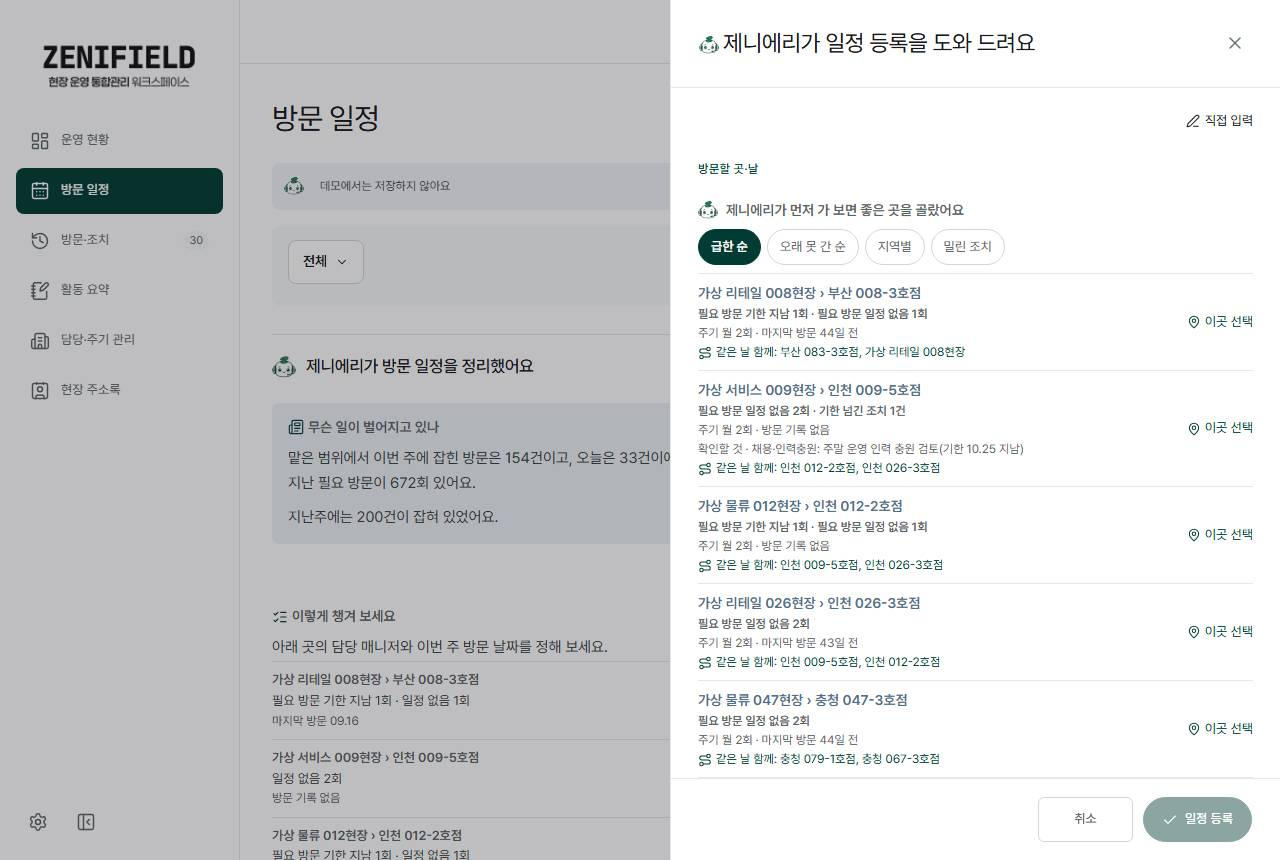
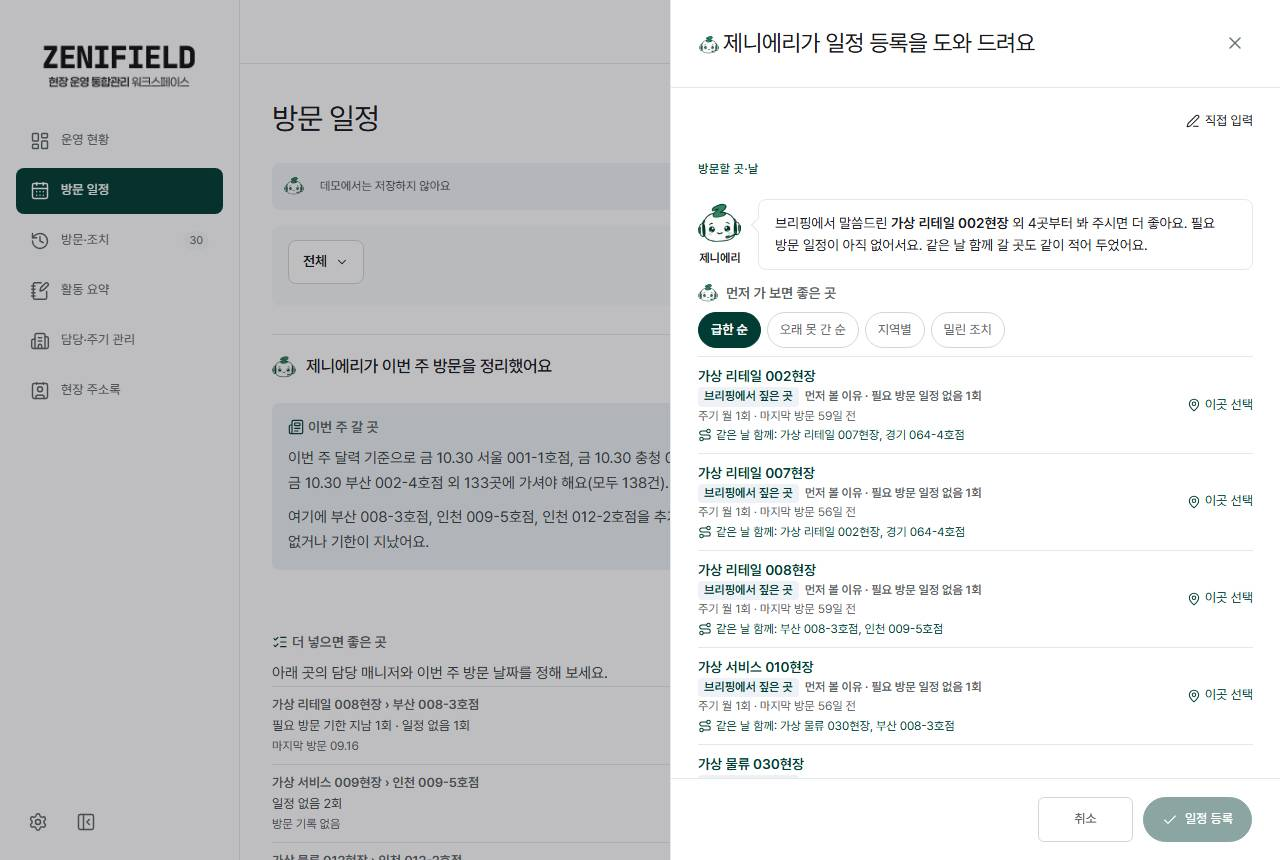
방문 일정 정리를 달력 기준(이번 주 갈 곳·더 넣으면 좋은 곳)으로, 일정 등록 추천에 제니에리 말풍선·브리핑에서 짚은 곳 연결·먼저 볼 이유

diff --git a/app/platform/page-guide.tsx b/app/platform/page-guide.tsx
@@ -11,33 +11,36 @@ import {targetOf} from './model';
 import type {Context} from './context';
 
 type Row={key:string;head:string;what:string;meta:string;go:()=>void;doLabel:string;doIt:()=>void;to:string;msg:string};
-function GuidePanel({title,paras,advice,rows,more}:{title:string;paras:string[];advice:string;rows:Row[];more?:ReactNode}){
+function GuidePanel({title,paras,advice,rows,more,storyTitle='무슨 일이 벌어지고 있나',listTitle='이렇게 챙겨 보세요'}:{title:string;paras:string[];advice:string;rows:Row[];more?:ReactNode;storyTitle?:string;listTitle?:string}){
  return <section className="panel ai-brief action-brief" aria-label={title}>
   <div className="panel-heading"><div><h2><AiMark/>{title}</h2></div></div>
   <div className="chart-body"><div className="ai-brief-out">
-   <section className="ai-brief-story"><h3><Newspaper size={16} aria-hidden/>무슨 일이 벌어지고 있나</h3>{paras.map((x,i)=><p key={i}>{x}</p>)}</section>
-   {rows.length>0&&<section className="ai-brief-focus"><h3><ListChecks size={16} aria-hidden/>이렇게 챙겨 보세요<CopyButton label="이렇게 챙겨 보세요 복사" text={[advice,...rows.map(r=>`- ${r.head}: ${r.what} (${r.meta})`)].join('\n')}/></h3>
+   <section className="ai-brief-story"><h3><Newspaper size={16} aria-hidden/>{storyTitle}</h3>{paras.map((x,i)=><p key={i}>{x}</p>)}</section>
+   {rows.length>0&&<section className="ai-brief-focus"><h3><ListChecks size={16} aria-hidden/>{listTitle}<CopyButton label={listTitle+' 복사'} text={[advice,...rows.map(r=>`- ${r.head}: ${r.what} (${r.meta})`)].join('\n')}/></h3>
     <p className="action-advice">{advice}</p>
     <ul className="action-late">{rows.map(r=><li key={r.key}><button type="button" onClick={r.go}><b>{r.head}</b><span>{r.what}</span><small>{r.meta}</small></button><button type="button" className="btn small" onClick={r.doIt}>{r.doLabel==='일정 잡기'?<CalendarPlus size={14} aria-hidden/>:r.doLabel==='결과 쓰기'?<PenLine size={14} aria-hidden/>:r.doLabel==='담당 정하기'?<UserRoundPen size={14} aria-hidden/>:<ClipboardPen size={14} aria-hidden/>}{r.doLabel}</button>{r.to&&<CopyButton label={r.to+'에게 보낼 말 복사'} text={r.msg} visible="보낼 말"/>}</li>)}</ul>{more}</section>}
   </div></div>
  </section>;
 }
+// 받침에 맞는 목적격 조사(을/를)
+const eul=(w:string)=>{const ch=w.charCodeAt(w.length-1);return ch>=0xac00&&ch<=0xd7a3&&(ch-0xac00)%28===0?'를':'을'};
 const honor=(c:Context,id:string)=>c.uname(id)+' 매니저님';
 
-// 방문 일정: 이번 주 잡힌 일정·일정 잡을 회차 → 먼저 일정을 잡을 곳 3곳
+// 방문 일정: 달력 기준(이번 주 잡힌 방문이 어디어디인지) → 더 넣으면 좋은 곳(필요 방문 일정이 없거나 기한 지난 곳) 독려. 무슨 일 문단은 방문·조치 화면에만.
 export function ScheduleGuide({c}:{c:Context}){
- const self=c.me.role==='manager',where=self?'':'맡은 범위에서 ';
- const f=useMemo(()=>{const wk=weekOf(c.now),we=dayShift(wk,6),pw=dayShift(wk,-7);
-  const planned=c.visits.filter(v=>v.status==='planned'&&between(v.plannedDate,wk,we)).length,plannedPrev=c.visits.filter(v=>between(v.plannedDate,pw,dayShift(pw,6))).length;
-  const today=c.visits.filter(v=>v.status==='planned'&&v.plannedDate===c.now).length,gap=c.allMetrics.delayed+c.allMetrics.unplanned;
+ const self=c.me.role==='manager';
+ const f=useMemo(()=>{const wk=weekOf(c.now),we=dayShift(wk,6),dow='일월화수목금토';
+  const week=c.visits.filter(v=>v.status==='planned'&&between(v.plannedDate,c.now,we)).sort((a,b)=>(a.plannedDate||'').localeCompare(b.plannedDate||'')||(a.time||'').localeCompare(b.time||''));
+  const label=(d:string)=>dow[new Date(d+'T12:00:00Z').getUTCDay()]+' '+mmdd(d);
   const att=attentionOf(targetFacts(c.scope,c.visits,c.actions,c.allMetrics.slots,c.now).values()).filter(x=>!x.upcoming&&(x.delayed.length||x.unplanned.length)).slice(0,3);
-  return {planned,plannedPrev,today,gap,att}},[c.visits,c.actions,c.scope,c.allMetrics,c.now]);
- const paras=[`${where}이번 주에 잡힌 방문은 ${f.planned}건이고, 오늘은 ${f.today}건이에요.`+(f.gap?` 일정을 아직 잡지 않았거나 기한이 지난 필요 방문이 ${f.gap}회 있어요.`:' 일정을 잡아야 할 필요 방문은 없어요.'),
-  `지난주에는 ${f.plannedPrev}건이 잡혀 있었어요.`];
+  return {week,label,att}},[c.visits,c.actions,c.scope,c.allMetrics,c.now]);
+ const uniq=[...new Set(f.week.map(v=>`${f.label(v.plannedDate!)} ${c.label(v)}`))],shown=uniq.slice(0,4),rest=uniq.length-shown.length;
+ const paras=[f.week.length?`이번 주 달력 기준으로 ${shown.join(', ')}${rest>0?` 외 ${rest}곳`:''}에 가셔야 해요(모두 ${f.week.length}건).`:'이번 주 달력에 남은 방문이 없어요.',
+  f.att.length?`여기에 ${f.att.map(x=>x.target.name).join(', ')}${eul(f.att[f.att.length-1].target.name)} 추가하면 좋아요. 필요 방문 일정이 아직 없거나 기한이 지났어요.`:'더 넣어야 할 필요 방문은 없어요. 지금 일정대로 다녀오시면 돼요.'];
  const rows:Row[]=f.att.map(x=>{const t=x.target,owner=t.managerIds[0]||'',why=[x.delayed.length&&`필요 방문 기한 지남 ${x.delayed.length}회`,x.unplanned.length&&`일정 없음 ${x.unplanned.length}회`].filter(Boolean).join(' · ');
   return {key:t.id,head:(t.type==='store'?t.siteName+' › ':'')+t.name,what:why,meta:x.lastVisit?`마지막 방문 ${mmdd(x.lastVisit)}`:'방문 기록 없음',go:()=>c.showTarget(t.id),doLabel:'일정 잡기',doIt:()=>c.open('visit',undefined,{targetType:t.type,siteId:t.siteId,storeId:t.storeId||undefined}),
    to:self||!owner?'':honor(c,owner),msg:owner?`${honor(c,owner)}, ${t.name} 필요 방문 일정이 아직 없어요. 이번 주 안에 방문 날짜를 잡아 주세요.`:''}});
- return <GuidePanel title="제니에리가 방문 일정을 정리했어요" paras={paras} advice={self?'아래 곳부터 방문 날짜를 잡아 보세요.':'아래 곳의 담당 매니저와 이번 주 방문 날짜를 정해 보세요.'} rows={rows}/>;
+ return <GuidePanel title="제니에리가 이번 주 방문을 정리했어요" storyTitle="이번 주 갈 곳" listTitle="더 넣으면 좋은 곳" paras={paras} advice={self?'달력에 아래 곳을 추가해 보세요.':'아래 곳의 담당 매니저와 이번 주 방문 날짜를 정해 보세요.'} rows={rows}/>;
 }
 
 // 방문 기록: 이번 기간 마친 방문·결과 안 쓴 방문 → 오래된 미작성 3건

diff --git a/app/platform/my-schedule.tsx b/app/platform/my-schedule.tsx
@@ -10,6 +10,7 @@ import {targetFacts,attentionOf,staleStores,LEVEL_ORDER,STALE_DAYS} from './stat
 import {levelLabel} from './judgment';
 import {MapPin,Route} from 'lucide-react';
 import {AiMark} from './ai-mark';
+import {briefPlaces} from './ai-brief';
 import {ruleName} from './model';
 
 const DOW=['일','월','화','수','목','금','토'];
@@ -51,7 +52,8 @@ export function VisitSuggest({c,visitor,onPick}:{c:Context;visitor:string;onPick
  const rows=useMemo(()=>{const own=c.targets.filter(t=>t.status==='운영 중'&&t.managerIds.includes(visitor)),pool=own.length?own:c.scope;
   const facts=targetFacts(pool,c.visits,c.actions,c.allMetrics.slots,c.now),att=attentionOf(facts.values()),seen=new Set(att.map(f=>f.target.id));
   const stale=staleStores(pool,c.visits,c.now).filter(x=>!seen.has(x.target.id)&&!facts.get(x.target.id)?.upcoming).map(x=>facts.get(x.target.id)!).filter(Boolean);
-  const base=[...att,...stale],last=(f:typeof base[number])=>f.lastVisit||'';
+  const named=new Set(briefPlaces(c.me.id,c.me.role)),inBrief=(f:typeof att[number])=>named.has(f.target.name);
+  const base0=[...att,...stale],base=[...base0.filter(inBrief),...base0.filter(f=>!inBrief(f))],last=(f:typeof base[number])=>f.lastVisit||'';
   const list=order==='urgent'?base:[...base].sort(order==='stale'?(a,b)=>last(a).localeCompare(last(b)):order==='region'?(a,b)=>(a.target.region||'').localeCompare(b.target.region||'')||a.target.siteName.localeCompare(b.target.siteName):(a,b)=>b.lateActions-a.lateActions);
   const open=new Map<string,typeof c.actions>();for(const x of c.actions){if(x.state==='완료')continue;const id=x.storeId||x.siteId,arr=open.get(id)||[];arr.push(x);open.set(id,arr)}
   return list.slice(0,5).map(f=>{const t=f.target,j=f.judgment&&LEVEL_ORDER[f.judgment.level]?f.judgment:null,days=daysBetween(f.lastVisit,c.now);
@@ -60,11 +62,12 @@ export function VisitSuggest({c,visitor,onPick}:{c:Context;visitor:string;onPick
    const acts=(open.get(t.id)||[]).sort((x,y)=>x.dueDate.localeCompare(y.dueDate)).slice(0,2);
    const check=[j?.assessment||'',...acts.map(x=>`${x.type}: ${x.content.length>40?x.content.slice(0,40)+'…':x.content}(기한 ${mmdd(x.dueDate)}${x.dueDate<c.now?' 지남':''})`)].filter(Boolean);
    const near=list.filter(o=>o.target.id!==t.id&&(o.target.siteId===t.siteId||(!!t.region&&o.target.region===t.region))).slice(0,2).map(o=>o.target.name);
-   return {t,why,interval,check,near}})},[c.targets,c.scope,c.visits,c.actions,c.allMetrics.slots,c.now,visitor,order]);
+   const because=j?`지난 판정이 ${levelLabel(j.level)}이라서요.`:f.delayed.length?'필요 방문 기한이 지나서요.':f.unplanned.length?'필요 방문 일정이 아직 없어서요.':f.lateActions?'기한 넘긴 조치가 남아 있어서요.':days===null?'아직 방문 기록이 없어서요.':`${days}일째 방문하지 않아서요.`;
+   return {t,why,interval,check,near,brief:named.has(t.name),because}})},[c.targets,c.scope,c.visits,c.actions,c.allMetrics.slots,c.now,visitor,order]);
  if(!rows.length)return <p className="form-hint wide">지금 먼저 챙길 담당 현장·매장은 없어요. 빈 날을 골라 일정을 잡아 보세요.</p>;
- return <section className="visit-suggest wide" aria-label="제니에리 방문 추천"><h3><AiMark size={20}/>제니에리가 먼저 가 보면 좋은 곳을 골랐어요</h3><div className="vs-order" role="radiogroup" aria-label="추천 장소 정렬">{SUGGEST_ORDER.map(([k,l])=><button key={k} type="button" role="radio" aria-checked={order===k} className={order===k?'on':''} onClick={()=>setOrder(k)}>{l}</button>)}</div>{order==='region'&&<p className="form-hint">같은 지역끼리 묶었어요. 한 번에 이어서 가 보세요.</p>}<ol>{rows.map(r=><li key={r.t.id}><button type="button" onClick={()=>onPick(r.t,r.check.map(x=>'- '+x).join('\n'))}>
+ return <section className="visit-suggest wide" aria-label="제니에리 방문 추천"><div className="zeni-working vs-say"><span className="zeni-working-character"><AiMark size={44}/><b>제니에리</b></span><p className="zeni-working-bubble" role="note">{(()=>{const top=rows[0],b=rows.filter(r=>r.brief);return b.length?<>브리핑에서 말씀드린 <b>{b[0].t.name}</b>{b.length>1?` 외 ${b.length-1}곳`:''}부터 봐 주시면 더 좋아요. {b[0].because}</>:<><b>{top.t.name}</b>부터 가 보시면 좋아요. {top.because}</>})()} 같은 날 함께 갈 곳도 같이 적어 두었어요.</p></div><h3><AiMark size={20}/>먼저 가 보면 좋은 곳</h3><div className="vs-order" role="radiogroup" aria-label="추천 장소 정렬">{SUGGEST_ORDER.map(([k,l])=><button key={k} type="button" role="radio" aria-checked={order===k} className={order===k?'on':''} onClick={()=>setOrder(k)}>{l}</button>)}</div>{order==='region'&&<p className="form-hint">같은 지역끼리 묶었어요. 한 번에 이어서 가 보세요.</p>}<ol>{rows.map(r=><li key={r.t.id}><button type="button" onClick={()=>onPick(r.t,r.check.map(x=>'- '+x).join('\n'))}>
   <b className={'zf-ent zf-ent-'+r.t.type}>{r.t.type==='store'?r.t.siteName+' › ':''}{r.t.name}</b>
-  {r.why.length>0&&<span className="vs-why">{r.why.join(' · ')}</span>}
+  {(r.brief||r.why.length>0)&&<span className="vs-why">{r.brief&&<em className="vs-brief">브리핑에서 짚은 곳</em>}{r.why.length>0&&<>먼저 볼 이유 · {r.why.join(' · ')}</>}</span>}
   <small>{r.interval}</small>
   {r.check.length>0&&<small className="vs-check">확인할 것 · {r.check.join(' / ')}</small>}
   {r.near.length>0&&<small className="vs-near"><Route size={14} aria-hidden/>같은 날 함께: {r.near.join(', ')}</small>}

diff --git a/app/platform/ai-brief.tsx b/app/platform/ai-brief.tsx
@@ -314,3 +314,12 @@ export function AiBriefSettings({c}:{c:Context}){
  const set=(k:keyof BriefFactors,v:boolean)=>{const n={...f,[k]:v};setF(n);try{localStorage.setItem(FACTORS_KEY+':'+c.me.id,JSON.stringify(n))}catch{}};
  return <section className="panel"><PanelTitle title="브리핑에 넣을 내용"/><div className="settings-blocks">{items.map(([k,t,p])=><label key={k} className="checkbox ai-brief-factor"><input type="checkbox" checked={f[k]} onChange={e=>set(k,e.target.checked)}/><div><h3>{t}</h3><p>{p}</p></div></label>)}</div></section>;
 }
+
+// 다른 화면(일정 등록 추천 등)이 운영 현황 브리핑과 이어지게: 이 사용자·직급의 저장된 브리핑에서 짚은 현장·매장 이름(순서 유지)
+export function briefPlaces(userId:string,role:string):string[]{
+ const v=readCache(userId+':'+role);if(!v)return [];const out:string[]=[],add=(n:string)=>{if(n&&!out.includes(n))out.push(n)};
+ for(const d of v.result.directive||[])for(const p of d.say)if(p.tone==='site'||p.tone==='store')add(p.v);
+ for(const f of v.result.focus)for(const p of f.reason)if(p.tone==='site'||p.tone==='store')add(p.v);
+ for(const p of v.result.story)if(p.tone==='site'||p.tone==='store')add(p.v);
+ return out;
+}

diff --git a/app/platform/styles.css b/app/platform/styles.css
@@ -983,3 +983,7 @@
 .app-shell .ai-brief .brief-row-actions .brief-do-links{display:flex;gap:6px;margin:0}
 .app-shell .ai-brief .brief-row-actions .btn,.app-shell .ai-brief .brief-row-actions .copy-btn{min-height:32px;padding:0 10px;font-size:13px;white-space:nowrap}
 @media(max-width:1023px){.app-shell .ai-brief .ai-brief-focus ol>li{grid-template-columns:minmax(0,1fr)}.app-shell .ai-brief .brief-row-actions{justify-self:start}}
+/* 일정 등록 추천: 제니에리 말풍선(왜 먼저 보면 좋은지, 브리핑과 연결) + 브리핑에서 짚은 곳 꼬리표 */
+.vs-say{margin:0 0 12px;padding:0}
+.vs-say .zeni-working-bubble{font-size:14px;line-height:1.6}
+.visit-suggest .vs-brief{display:inline-block;margin-right:6px;padding:0 6px;border-radius:4px;background:var(--zf-info-soft);color:var(--zf-brand-green);font-style:normal;font-size:12px;font-weight:600}

diff --git a/PROJECT_RULE.md b/PROJECT_RULE.md
@@ -45,7 +45,7 @@
 | DC-DESIGN-ZENIERI | AI 표시 = `AiMark`(`zenieri-chatbot.png`, 24/20/44px) 하나. 문장 = 제니에리 해요체 완결 문장·직함 호칭, 메모체·콜론 나열 금지(AI `briefPrompt`·규칙 `ruleBrief` 모두). 권한 안내는 거부 때만. 지침 9-B |
 | DC-DESIGN-BRIEF | 브리핑 = 제목 `제니에리가 정리해서 말씀드려요`·누구 이야기 → 무슨 일(한 문단) → 어디에 무엇이(요약+자세히 보기) → 이렇게 챙겨 보세요(보는 사람 관리 가이드·넘기는 지시 금지·복사) → 더 보기(이행 가이드+복사·전할 말·다음 주·근거·AI 고지). 칸 제목 14px·600+16px 아이콘, 상태 칩 하나+작성 중 가림막. 저장본 키 사용자·직급별·로그아웃 삭제. 지침 9-B |
 | DC-DESIGN-DASHBOARD | 모든 직급 같은 구성: H1 아래 기준 시각 → `ZeniCheer`(보는 범위 사실·자기 과거 비교·직함 호칭) → 브리핑 → 범위·탭 → 지표 4개 → 차트 한 쌍(조직 공백표 + 주별 이행률 꺾은선·축 하나) → 오늘·이번 주·안 끝난 조치 5줄+전체 보기. 누적 막대·이중 축·도넛·게이지·중복 차트·조직 순위 금지. 지침 6.1 |
-| DC-DESIGN-SCHEDULE | 추천 정렬 칩 급한 순(attentionOf)·오래 못 간 순·지역별·밀린 조치(사실 정렬, 점수 금지). 브리핑 가이드 줄 버튼은 줄 끝(1023px 이하 문장 아래). 방문 일정 기본: 잡매니저 월간 / 파트장 이상 단위×요일 주간. 등록 = `VisitSuggest`(먼저 가 보면 좋은 곳 5곳: 왜·주기·마지막 방문·확인할 것·같은 날 함께, `attentionOf`→`staleStores`, 사전 확인사항 빈칸 채움) → 7일 빈 날 → `schedule.ts` 후보 5개. 사람이 고른 값 우선 |
+| DC-DESIGN-SCHEDULE | 방문 일정 정리 = 이번 주 갈 곳(달력 기준)·더 넣으면 좋은 곳, `무슨 일` 문단 중복 금지. 일정 등록 추천은 `briefPlaces`로 브리핑 연결(말풍선·꼬리표·맨 앞). 추천 정렬 칩 급한 순(attentionOf)·오래 못 간 순·지역별·밀린 조치(사실 정렬, 점수 금지). 브리핑 가이드 줄 버튼은 줄 끝(1023px 이하 문장 아래). 방문 일정 기본: 잡매니저 월간 / 파트장 이상 단위×요일 주간. 등록 = `VisitSuggest`(먼저 가 보면 좋은 곳 5곳: 왜·주기·마지막 방문·확인할 것·같은 날 함께, `attentionOf`→`staleStores`, 사전 확인사항 빈칸 채움) → 7일 빈 날 → `schedule.ts` 후보 5개. 사람이 고른 값 우선 |
 | DC-DESIGN-RECORDS | 방문 기록 = 표 위 탭 한 줄 단일 선택(전체·먼저 볼 보고·안 끝난 이슈·고객 요청·결과 안 쓴 방문), 기준 `judgment.ts` issueGuide(저장 판정만), 0건 숨김, 줄마다 걸린 이슈. 이슈 종류 묶음·판정 수준 묶음·다단계 필터 금지 |
 | DC-DESIGN-FORM | 입력 폼 = 한 열 기본(짧은 짝 칸만 2열), 라벨 위, 선택 칸 `(선택)` 표시. 금지: 안내 박스·준비 중 기능 안내·구역 번호·같은 안내 중복·선택 칸 접기. 새로 만들 때 진행 상태 칸 숨김, 수시 방문은 예정 시간·사전 확인사항 숨김. 혼자 남는 칸은 한 줄 전체. 갱신 2026-10-30 |
 | DC-DESIGN-PAGE-GUIDE | 방문 일정·방문 기록·후속 조치 맨 위 제니에리 정리(같은 틀: 무슨 일 문단 → 할 일 한 문장 + 3건). 줄 = [대상·내용(열기)] [바로 하기 작은 버튼: 일정 잡기·결과 쓰기] [받는 사람에게 보낼 말 복사 44px] 한 줄. 브리핑 `이렇게 챙겨 보세요`도 같은 바로 하기·복사, 문장 속 현장·매장 이름 링크. `page-guide.tsx`·`action-brief.tsx`. 갱신 2026-10-30 |

diff --git a/AGENTS.md b/AGENTS.md
@@ -75,7 +75,8 @@
 - 한 화면 한 번: 같은 숫자·목록을 두 곳에 두지 않음. 조직 표 순위 정렬 금지.
 
 **방문 일정**
-- 맨 위 제니에리 정리(`page-guide.tsx`): 이번 주 잡힌 일정·일정 잡을 회차·지난주 비교 → 먼저 일정 잡을 곳 3곳(일정 잡기·보낼 말 복사).
+- 맨 위 제니에리 정리(`page-guide.tsx`): `이번 주 갈 곳`(달력 기준 어디어디) → `더 넣으면 좋은 곳` 3곳(일정 잡기·보낼 말). `무슨 일` 문단은 방문·조치에만.
+- 일정 등록 추천: 제니에리 말풍선(브리핑에서 짚은 곳부터 + 이유), 그 곳은 꼬리표·맨 앞(`briefPlaces`).
 - 기본 보기: 잡매니저 월간 / 파트장 이상 하위 단위×요일 주간 달력.
 - 등록(AI 기본·`직접 입력` 전환): 추천 위 정렬 칩(급한 순·오래 못 간 순·지역별·밀린 조치). 대상 고르기 전 `제니에리가 먼저 가 보면 좋은 곳을 골랐어요` 최대 5곳(왜·주기·마지막 방문·확인할 것·같은 날 함께) → 앞 7일 빈 날 칩 → 대상 정하면 사실 한 줄+후보 날짜 5개(`schedule.ts`). 사람이 고른 값 우선, AI 초안은 빈칸만.
 
